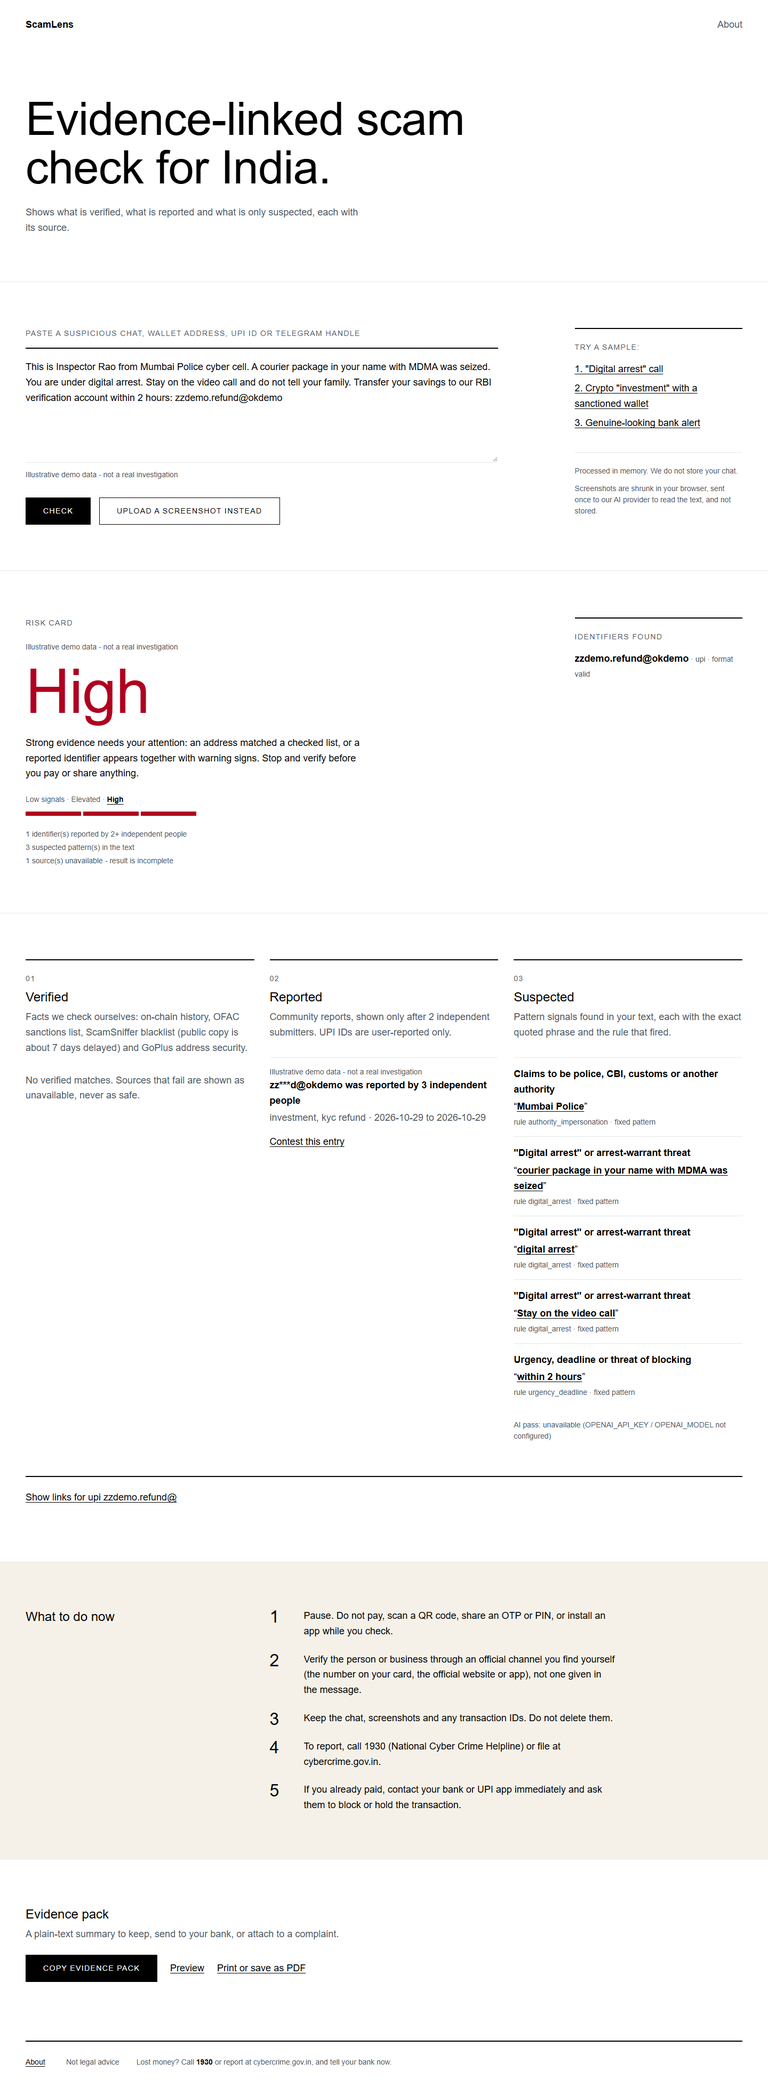
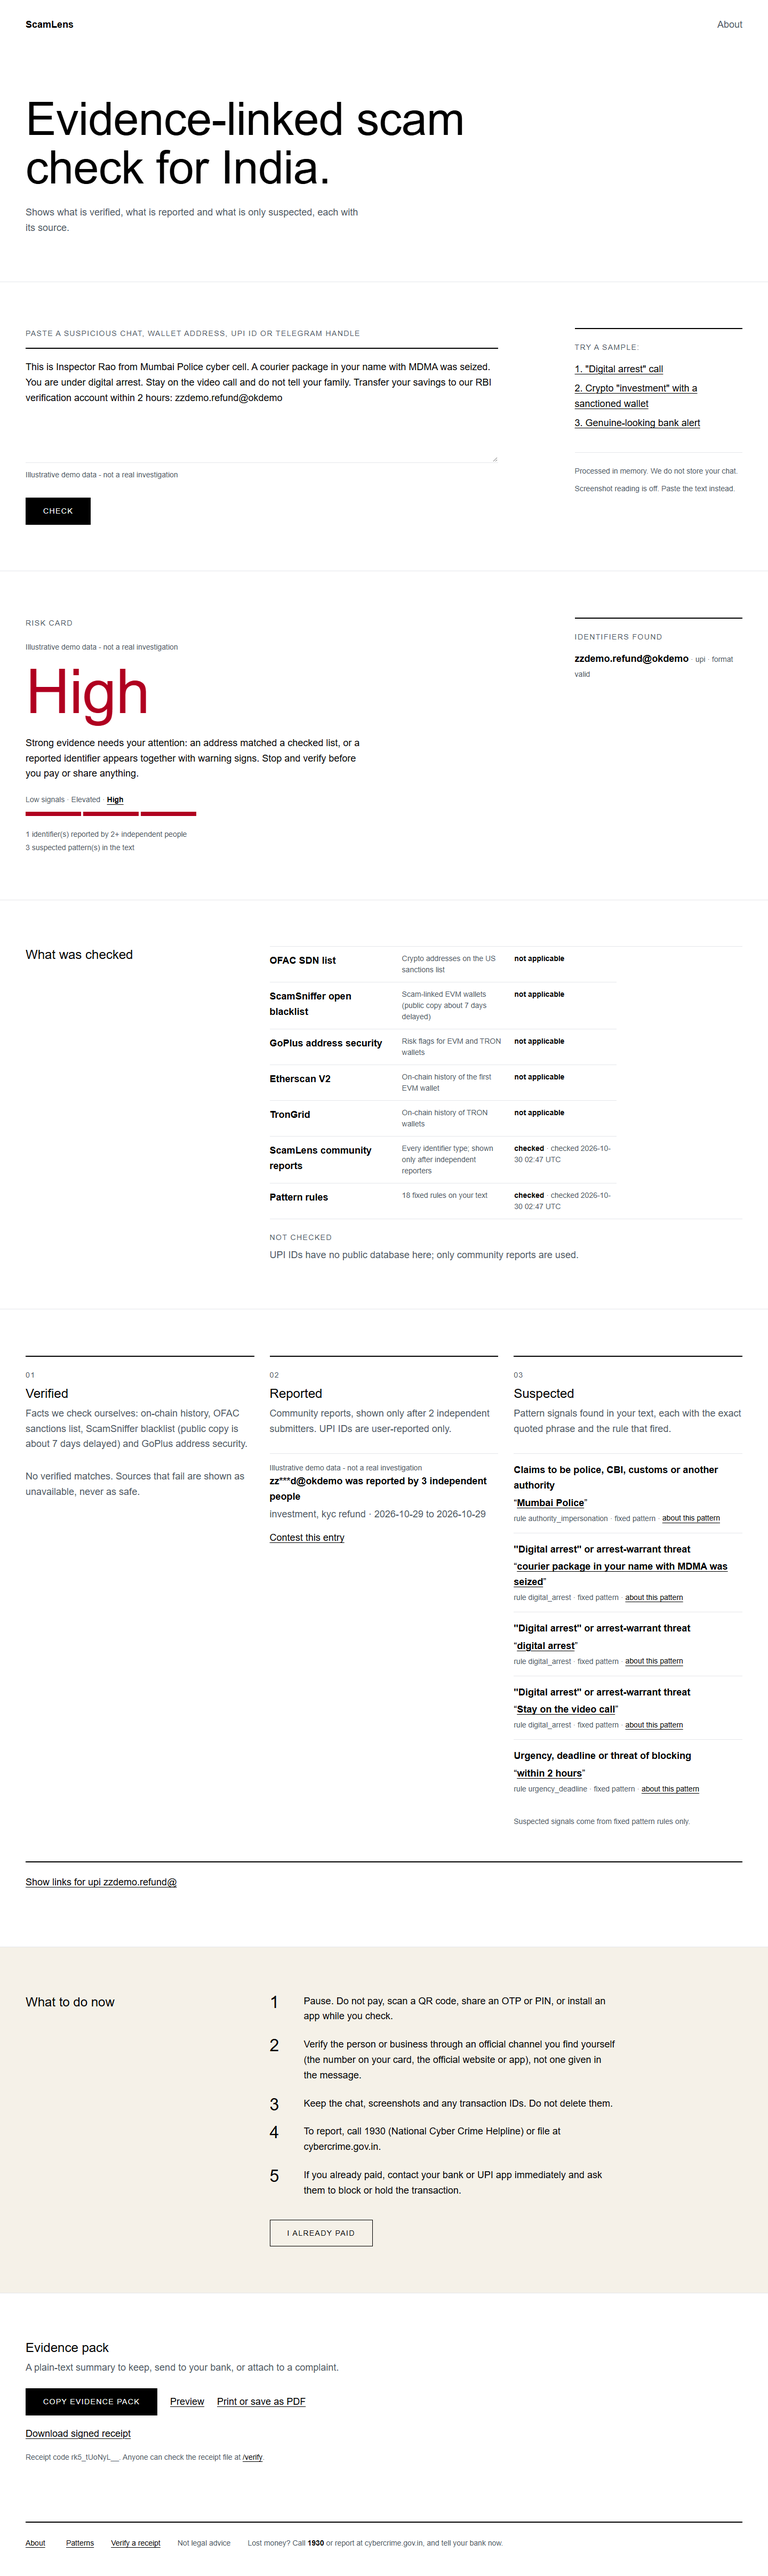
docs(release): record the live verification of the final round
After the push the live build matched HEAD, smoke-live passed all 39
expectations including signed receipts, headers passed 48 checks, and
a live browser run of the new features matched local. Six live
screenshots replace the previous set. No code changed.

diff --git a/docs/knowledge/17-CHANGELOG.md b/docs/knowledge/17-CHANGELOG.md
@@ -12,6 +12,7 @@ What changed, by day, in plain language. The "Notes" list is written by hand wit
 - Knowledge base added in `docs/knowledge/` with generated tables and a docs check that runs in `npm test`.
 - AI off made explicit: a new `off` status (no key) is no longer counted as an unavailable source; the Suspected tier says "Suspected signals come from fixed pattern rules only."; the screenshot control is replaced by "Screenshot reading is off. Paste the text instead." whenever no vision model is configured (same check as `/api/health` `vision`), and `/api/transcribe` returns that sentence; /about wording follows the same checks.
 - TigerGraph re-run attempted: workspace does not auto-start; Postgres fallback confirmed through the app.
+- Released: pushed f201b16 to main; live build, smoke-live (39), headers (48) and a live browser run all passed.
 - Launch kit (docs/knowledge/20) with X, LinkedIn and WhatsApp drafts and a 30-second script; demo scripts in 14 rewritten from the release-gate outputs.
 - Share preview: Open Graph and Twitter large-card metadata, a generated 1200x630 share image (white, black rule, wordmark, one line; palette colours only, no web fonts) and a monochrome lens icon; optional NEXT_PUBLIC_SITE_URL sets absolute image URLs.
 - Fixed in the release gate: the /verify link in the evidence-pack line now has a 44 px tap area.
@@ -40,7 +41,7 @@ What changed, by day, in plain language. The "Notes" list is written by hand wit
 
 ### Commit summary (generated, not compared by docs:check)
 <!-- GENERATED:START commits -->
-- **2026-10-30** (31 commits): feat(launch): add share preview metadata, a share image and an icon; docs(release): record the final quality gate and its screenshots; fix(ui): give the /verify link in the evidence pack a 44px tap area; feat(patterns): publish a pattern library generated from the rules; feat(receipts): sign every check and let anyone verify it at /verify; feat(paid-mode): add an "i already paid" plan and a browser-only draft; feat(ledger): show what was checked and what was not on every result; feat(reports): delete contest reasons once decided or 90 days old; test(eval): add six decoy and warning cases and rerun the evaluation; fix(signals): treat "if someone says this, it is a fraud" as a warning; fix(signals): stop warning words hiding hits that ask the reader to pay; docs(ops): record that tigergraph did not wake and the fallback answered; feat(signals): say plainly that checks are rules only while ai is off; chore(docs): generate knowledge-base tables from code and fail on drift; docs(knowledge): add a knowledge base that explains every part of scamlens; docs(screens): add live screenshots after the swiss redesign deploy; docs(readme): describe the swiss design, palette rules and build check; feat(health): report the deployed build so the live site can be checked; docs(ui): rewrite the ui checklist for the swiss design; docs(screens): add after screenshots of the swiss layout; fix(ui): repair layout issues found in the browser check; docs(progress): record the component restyle evidence; style(about): lay out about and 404 on the grid with paper bands; style(ui): draw the link graph in black, grey and one alert path; style(ui): divide tier findings with light rules and plain notices; style(ui): restyle buttons, text box and inline forms; style(layout): use a 12-column grid that fills the window; test(style): enforce the swiss palette and add a wcag contrast test; style(ui): add the swiss palette as css variables and base type styles; docs(rules): write down the commit, permission, summary and push rules; docs(screens): add before screenshots of the narrow single column
+- **2026-10-30** (32 commits): docs(launch): write the launch posts and demo scripts from real runs; feat(launch): add share preview metadata, a share image and an icon; docs(release): record the final quality gate and its screenshots; fix(ui): give the /verify link in the evidence pack a 44px tap area; feat(patterns): publish a pattern library generated from the rules; feat(receipts): sign every check and let anyone verify it at /verify; feat(paid-mode): add an "i already paid" plan and a browser-only draft; feat(ledger): show what was checked and what was not on every result; feat(reports): delete contest reasons once decided or 90 days old; test(eval): add six decoy and warning cases and rerun the evaluation; fix(signals): treat "if someone says this, it is a fraud" as a warning; fix(signals): stop warning words hiding hits that ask the reader to pay; docs(ops): record that tigergraph did not wake and the fallback answered; feat(signals): say plainly that checks are rules only while ai is off; chore(docs): generate knowledge-base tables from code and fail on drift; docs(knowledge): add a knowledge base that explains every part of scamlens; docs(screens): add live screenshots after the swiss redesign deploy; docs(readme): describe the swiss design, palette rules and build check; feat(health): report the deployed build so the live site can be checked; docs(ui): rewrite the ui checklist for the swiss design; docs(screens): add after screenshots of the swiss layout; fix(ui): repair layout issues found in the browser check; docs(progress): record the component restyle evidence; style(about): lay out about and 404 on the grid with paper bands; style(ui): draw the link graph in black, grey and one alert path; style(ui): divide tier findings with light rules and plain notices; style(ui): restyle buttons, text box and inline forms; style(layout): use a 12-column grid that fills the window; test(style): enforce the swiss palette and add a wcag contrast test; style(ui): add the swiss palette as css variables and base type styles; docs(rules): write down the commit, permission, summary and push rules; docs(screens): add before screenshots of the narrow single column
 - **2026-10-29** (29 commits): feat(G5): README, DEPLOY, SPEC and HUMAN_TASKS for round 2; final eval run; feat(G4): minimalist redesign - four-colour palette, system type scale, no boxes, grayscale graph, inline forms, 404, style-enforcement test; feat(G3): warning-context hits shown but not counted, narrower digital-arrest and lucky-draw rules, 8 new eval cases; feat(G2): contested reports stay visible and labelled, never count toward High; migration 002 with old-schema fallback; MODERATION.md; feat(G1): CSP verified against build output, directive test, check-headers script, plain-words trade-off; feat(F8): health statuses without secrets, smoke-live script, DEPLOY.md, README and SPEC final decisions; feat(F7): risk explanation, What to do now, visible notices, tier labels, focus and aria-live, print support, one demo label incl. graph; feat(F6): domain list probed and honestly skipped, chain support doc from live probes, working link on every verified row; feat(F5): 26 new synthetic eval cases, narrow FP fixes, obfuscation-aware rules, RESULTS.md with per-rule and identifier metrics; feat(F4): /about trust page from code constants, site footer, report-limit constant; feat(F3): screenshot input via /api/transcribe with rate limit, transcript confirmation UI, smoke script; feat(F2): usage store with daily per-fingerprint limits, global LLM cap, 429 before external calls, 2-chain Etherscan cap; feat(F1): limits, safe logger, security headers, banned-words test, reporter-independent graph links, IP-only fingerprint; feat(F0): audit findings, ReDoS timing script, progress log; Graph view: place node labels below the circles; Etherscan summary: don't say 'no transactions' for contracts or non-zero nonce; Graph view: visible link lines and node labels on dark theme; TigerGraph: treat only 'unknown vertex id' as no links; config errors now fall back to Postgres; TigerGraph verified live: queries compile and install, parity 19/19 with Postgres; TigerGraph: correct GSQL v2 queries, loader, live sync, parity-checked setup script; Etherscan free plan: skip BNB/Base, 2 req/s, retry on rate limit, 10-min cache; Fix empty numeric env vars disabling reports; demo sample 1 uses seeded UPI; M6: synthetic eval, evidence pack, demo samples, README; M5: reports (2-reporter rule, contest, rate limit, hub filter) + link graph; M4: signals engine (18 rules + validated AI pass) and risk rules; M3: verified tier (OFAC, ScamSniffer, GoPlus, Etherscan V2, TronGrid) + /api/check; M2: identifier extractor with checksum/format validation; M1: deployed skeleton (local checks pass); Step 0: add project spec (docs/SPEC.md)
 <!-- GENERATED:END commits -->
 

diff --git a/docs/PROGRESS.md b/docs/PROGRESS.md
@@ -455,3 +455,14 @@ Full matrix and scenario table: `docs/knowledge/18-RELEASE-READINESS.md`.
 | Metadata and images | PASS | `/opengraph-image` 200 image/png 42,067 bytes, 1200x630 (viewed: white, black rule, wordmark, one line, secondary-grey text); og:* and twitter:card summary_large_image tags in the page head; `/icon.svg` 200 image/svg+xml; `launch.test.ts` (4); style and contrast tests pass |
 | Launch kit | PASS | `docs/knowledge/20-LAUNCH-KIT.md`: X, LinkedIn, WhatsApp drafts and a 30-second script; no accusation words, no recovery promise, not legal advice, limits stated, AI line matches "switched off", link placeholder <URL> |
 | Demo doc from real outputs | PASS | `14-DEMO-AND-JUDGING.md` 90-second and 4-minute scripts use the release-gate strings and levels; rule count via FACT marker (docs:check) |
+
+## J8 - Push and live verification
+
+| Criterion | Result | Evidence |
+|---|---|---|
+| Remote not ahead | PASS | `origin-only commits: 0` |
+| Fast-forward and plain push | PASS | `9e95b19..f201b16  main -> main`; `git log origin/main -1`: `f201b16 Abin-Shaji-Thomas <abinshajiabin2006@gmail.com> docs(launch): ...` |
+| Live build = HEAD | PASS | 08:15:24 `9e95b19`, 08:16:07 `"build":"f201b16"`; `"receipts":true` |
+| smoke-live | PASS | `ALL PASS (39 expectations)`; receipts verify for all three samples (codes icPmIKap2eEM, P4bfYH1_s6tN, 8DPUAodT-Dbr) |
+| check-headers | PASS | `ALL PASS (48 checks)` |
+| Live browser | PASS | 6 screenshots `docs/screens/live-*.png` (replacing the UI round's set); console empty on /, /about, /patterns, /verify; sample check High 3/3; I already paid: 7 steps, 0 requests; receipt download -> /verify valid in the browser, tampered rejected |

diff --git a/docs/knowledge/18-RELEASE-READINESS.md b/docs/knowledge/18-RELEASE-READINESS.md
@@ -26,6 +26,15 @@ The final quality gate, run on 2026-10-30 against `npm run build` + `npm run sta
 | Tests, typecheck, lint, build, docs:check, eval | PASS | `Tests 402 passed (402)`, typecheck 0, lint 0, build 0, `docs:check PASS`, eval `precision 100.0%, recall 100.0%, FP 0, FN 0` |
 | AI mode | NOT APPLICABLE | off by the owner's decision; zero model calls; UI and docs say rules only |
 
+### Live verification after the push (2026-10-30)
+| Check | Result | Evidence |
+|---|---|---|
+| Push | PASS | `9e95b19..f201b16  main -> main` (fast-forward) |
+| Live build | PASS | `/api/health` `"build":"f201b16"` about 45 s after the push; `"receipts":true` (the Vercel key parses) |
+| smoke-live | PASS | `ALL PASS (39 expectations)`, including "signed receipt verifies with the published key" for all three samples |
+| check-headers | PASS | `ALL PASS (48 checks)` |
+| Live browser | PASS | `/`, sample 1, `/patterns`, `/verify`, `/about`: no overflow, 44 px tap targets, no console messages; sample 1 High 3/3; ledger 7 rows; paid plan 7 steps, 0 requests while editing and copying; downloaded receipt verified in the browser, tampered copy rejected; print black only. Screenshots `docs/screens/live-*.png` (6) match the local ones |
+
 ### Scenarios (real check path, 2026-10-30)
 | Scenario | Risk | Verified | Reported | Suspected (w = warning context) | Receipt |
 |---|---|---|---|---|---|

diff --git a/docs/HUMAN_TASKS.md b/docs/HUMAN_TASKS.md
@@ -39,5 +39,6 @@ Most of `docs/UI_CHECKLIST.md` was verified in headless Edge on 2026-10-30 (layo
 
 ## Later / optional
 - **Add an AI key later, if wanted** (not needed; ScamLens is rules-only by design right now): set `OPENAI_API_KEY`, `OPENAI_MODEL` (and `OPENAI_VISION_MODEL` if needed, `OPENAI_BASE_URL` for other providers) in `web/.env.local` and in Vercel, then redeploy. The AI pass and screenshot reading switch on automatically (`/api/health` shows `"llm": true`). Then run `npx tsx scripts/smoke-transcribe.ts <your-own-synthetic-screenshot.png> --show` (must print `PASS`) and `npm run eval` in both modes before claiming any benefit.
+- **Share previews** (optional): if link previews show the wrong host, set `NEXT_PUBLIC_SITE_URL=https://scam-lens-two.vercel.app` in Vercel (not a secret) and redeploy.
 - **Moderating contests**: `docs/MODERATION.md` (list, uphold, dismiss, remove; TigerGraph clean-up after an uphold).
 - **Before judging**: keep Supabase awake and warm TigerGraph as in `docs/DEPLOY.md` section 5.
